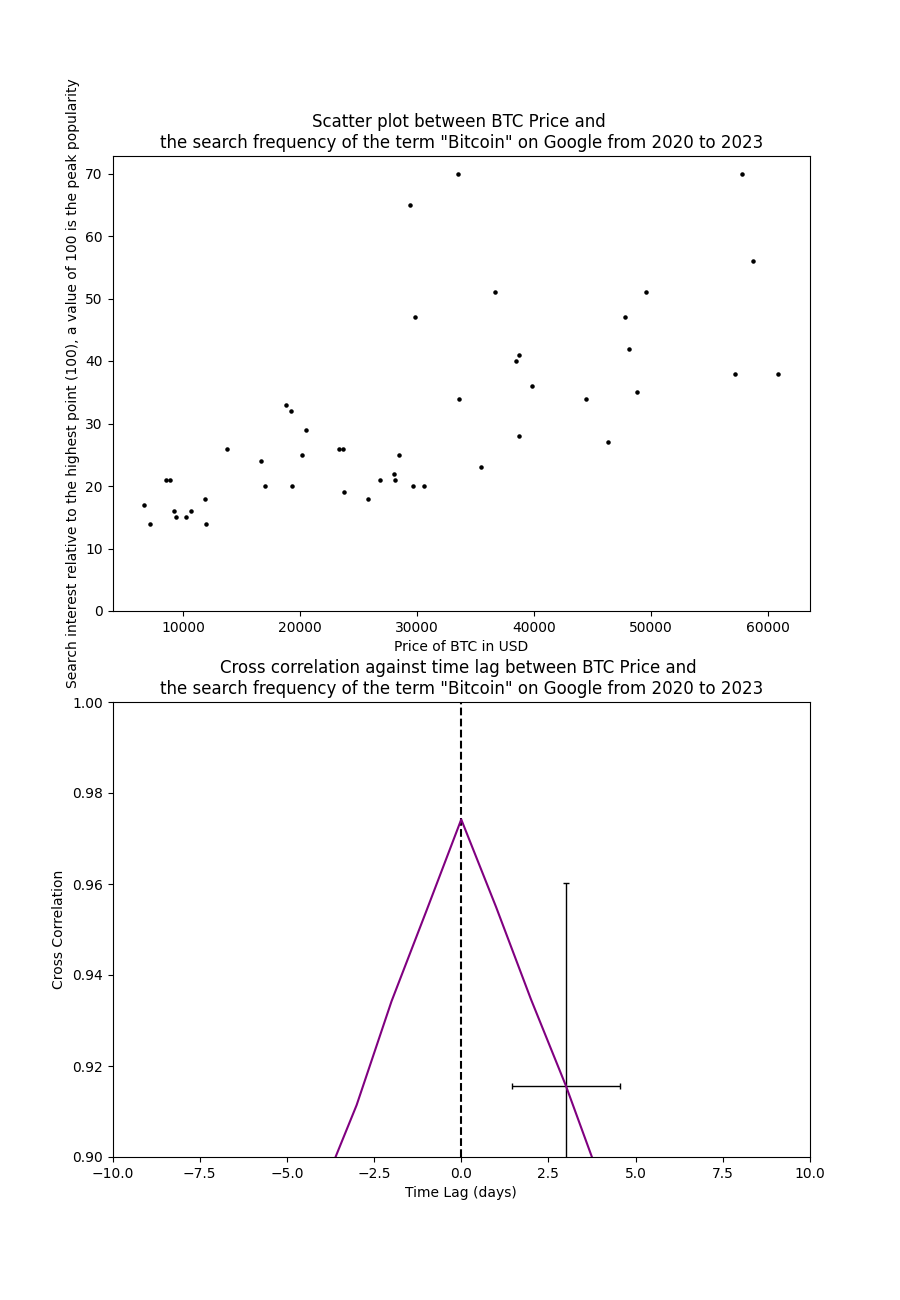
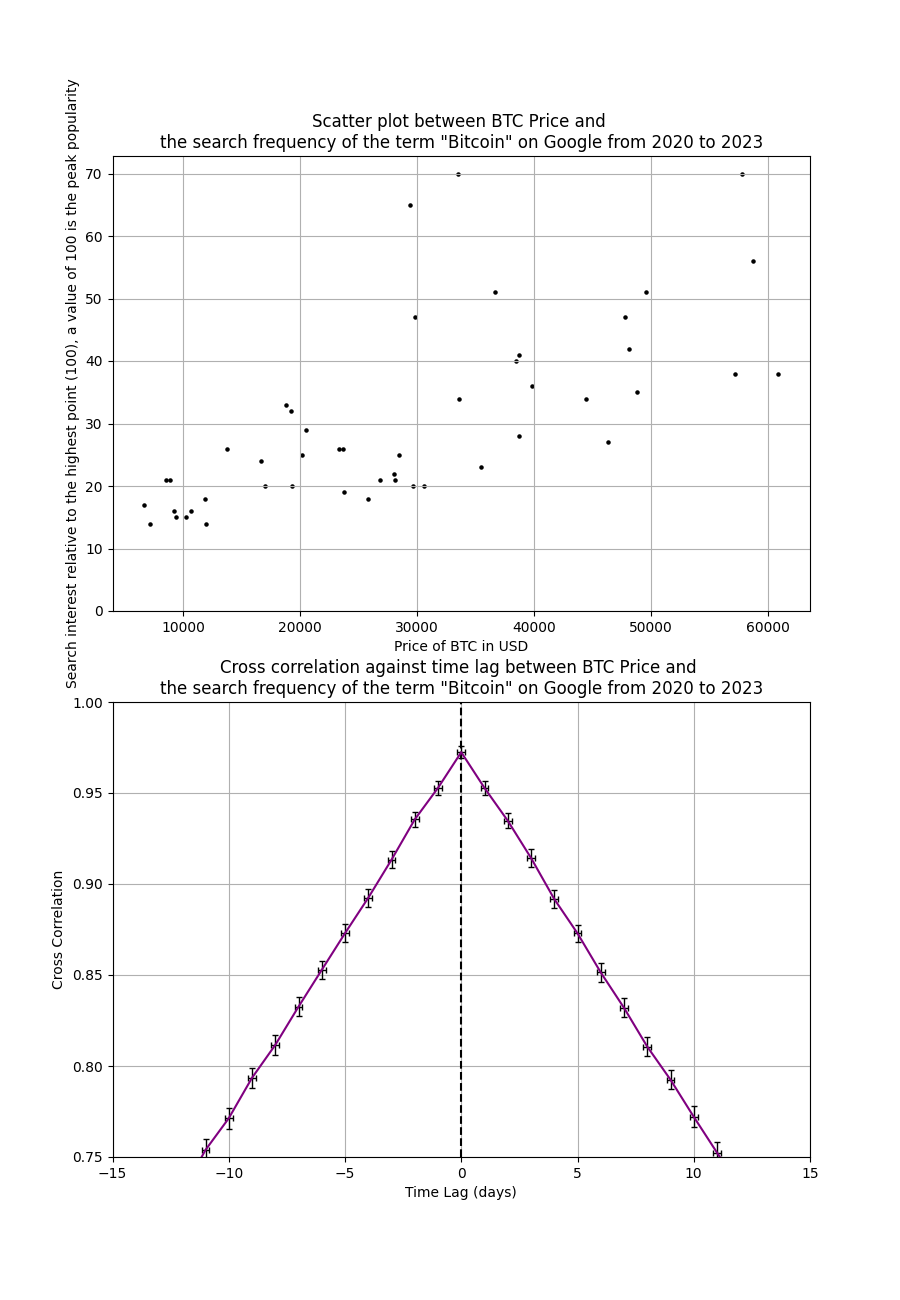
new plots, changed std dev to std err

diff --git a/Projects/TimeSeriesAnalysis/extension.py b/Projects/TimeSeriesAnalysis/extension.py
@@ -37,6 +37,7 @@ btcPrice = np.array(btcPrice)
 fig, ax = plt.subplots(2, 1, figsize = (9, 13))
 lagBtcGold, correlationBtcGold, sdLagBtcGold, sdCorrelationBtcGold, lagvalueBtcGold = base.cross_correlation(btcPrice, goldPrice, n_times= 1000)
 spearman_r_gold, pearson_r_gold  = base.correlation_coefficient(btcPrice, goldPrice)
+print('gold')
 print(spearman_r_gold)
 print(pearson_r_gold)
 
@@ -48,7 +49,7 @@ ax[0].set_ylabel('Gold spot price (US dollars per troy ounce)')
 
 ax[1].grid('True')
 ax[1].errorbar(lagBtcGold, correlationBtcGold, color= 'purple', xerr= sdLagBtcGold, yerr= sdCorrelationBtcGold,
-               ecolor='black', elinewidth=1, capsize=2, errorevery=10)
+               ecolor='black', elinewidth=1, capsize=2, errorevery= 3)
 ax[1].text(-30, 0.375, f"$\\sigma$ on cross-correlation = {np.mean(sdCorrelationBtcGold):.2f},\n$\\sigma$ on time lag = {sdLagBtcGold:.2f} days")
 ax[1].axvline(x=0, color='black', linestyle='--')
 ax[1].set_xlim(-20, 20)
@@ -60,7 +61,7 @@ ax[1].set_xlabel('Time Lag (days)')
 plt.savefig(os.path.join(current_directory, "WrittenReport", "plots", "btcPriceGoldPrice.png"))
 plt.clf()
 
-print(lagvalueBtcGold, 'sd =', sdLagBtcGold)
+print(lagvalueBtcGold, '\pm', sdLagBtcGold)
 #####################################################################################
 #####################################################################################
 
@@ -71,6 +72,7 @@ snpPrice = merged_data['close_y']
 
 lagBtcSnp, correlationBtcSnp, sdLagBtcSnp, sdCorrelationBtcSnp, lagValBtcSnp = base.cross_correlation(btcPrice, snpPrice, n_times= 1000)
 spearman_r_snp, pearson_r_snp  = base.correlation_coefficient(btcPrice, snpPrice)
+print('snp')
 print(spearman_r_snp)
 print(pearson_r_snp)
 
@@ -84,7 +86,7 @@ ax1[0].set_ylabel('snp spot price (US dollars per troy ounce)')
 
 ax1[1].grid('True')
 ax1[1].errorbar(lagBtcSnp, correlationBtcSnp, color= 'purple', xerr= sdLagBtcSnp, yerr= sdCorrelationBtcSnp,
-               ecolor='black', elinewidth=1, capsize=2, errorevery=10)
+               ecolor='black', elinewidth=1, capsize=2, errorevery= 3)
 ax1[1].text(-30, 0.375, f"$\\sigma$ on cross-correlation = {np.mean(sdCorrelationBtcSnp):.2f},\n$\\sigma$ on time lag = {sdLagBtcSnp:.2f} days")
 ax1[1].axvline(x=0, color='black', linestyle='--')
 ax1[1].set_xlim(-15, 15)
@@ -96,7 +98,7 @@ ax1[1].set_xlabel('Time Lag (days)')
 plt.savefig(os.path.join(current_directory, "WrittenReport", "plots", "btcPriceSnp.png"))
 plt.clf()
 
-print(lagValBtcSnp, 'sd =', sdLagBtcSnp)
+print(lagValBtcSnp, '\pm', sdLagBtcSnp)
 
 #####################################################################################
 #####################################################################################
@@ -107,6 +109,7 @@ eurPrice = merged_data['close_y']
 
 lagBtcEur, correlationBtcEur, sdLagBtcEur, sdCorrelationBtcEur, lagValBtcEur = base.cross_correlation(btcPrice, eurPrice, n_times= 1000)
 spearman_r_eur, pearson_r_eur  = base.correlation_coefficient(btcPrice, eurPrice)
+print('eur')
 print(spearman_r_eur)
 print(pearson_r_eur)
 
@@ -120,7 +123,7 @@ ax2[0].set_ylabel('EUR-USD exchange rate (higher = USD stronger)')
 
 ax2[1].grid('True')
 ax2[1].errorbar(lagBtcEur, correlationBtcEur, color= 'purple', xerr= sdLagBtcEur, yerr= sdCorrelationBtcEur,
-               ecolor='black', elinewidth=1, capsize=2, errorevery=10)
+               ecolor='black', elinewidth=1, capsize=2, errorevery= 3)
 ax2[1].text(-30, 0.375, f"$\\sigma$ on cross-correlation = {np.mean(sdCorrelationBtcEur):.2f},\n$\\sigma$ on time lag = {sdLagBtcEur:.2f} days")
 ax2[1].axvline(x=0, color='black', linestyle='--')
 ax2[1].set_xlim(-20, 20)
@@ -132,7 +135,8 @@ ax2[1].set_xlabel('Time Lag (days)')
 plt.savefig(os.path.join(current_directory, "WrittenReport", "plots", "btcPriceEur.png"))
 plt.clf()
 
-print(lagValBtcEur, 'sd =', sdLagBtcEur)
+print("eur")
+print(lagValBtcEur, '\pm', sdLagBtcEur)
 
 ##################################################################################
 ###################################################################################
@@ -154,6 +158,7 @@ plt.show()
 fig3, ax3 = plt.subplots(2, 1, figsize = (9, 13))
 lagBtcSearch, correlationBtcSearch, sdLagBtcSearch, sdCorrelationBtcSearch, lagValBtcSearch = base.cross_correlation(btcPrice, btcSearch, n_times= 1000)
 spearman_r, pearson_r  = base.correlation_coefficient(btcPrice, btcSearch)
+print('search')
 print(spearman_r)
 print(pearson_r)
 
@@ -166,7 +171,7 @@ ax3[0].set_ylabel('Search interest relative to the highest point (100), a value 
 
 ax3[1].grid('True')
 ax3[1].errorbar(lagBtcSearch, correlationBtcSearch, color= 'purple', xerr= sdLagBtcSearch, yerr= sdCorrelationBtcSearch,
-               ecolor='black', elinewidth=1, capsize=2, errorevery=5)
+               ecolor='black', elinewidth=1, capsize=2)
 ax3[1].text(-30, 0.375, f"$\\sigma$ on cross-correlation = {np.mean(sdCorrelationBtcSearch):.2f},\n$\\sigma$ on time lag = {sdLagBtcSearch:.2f} days")
 ax3[1].axvline(x=0, color='black', linestyle='--')
 ax3[1].set_xlim(-15, 15)
@@ -177,4 +182,4 @@ ax3[1].set_xlabel('Time Lag (days)')
 
 plt.savefig(os.path.join(current_directory, "WrittenReport", "plots", "btcPricebtcSearch.png"))
 
-print(lagValBtcSearch, 'sd =', sdLagBtcSearch)
+print(lagValBtcSearch, '\pm', sdLagBtcSearch)

diff --git a/Projects/TimeSeriesAnalysis/main.py b/Projects/TimeSeriesAnalysis/main.py
@@ -67,16 +67,16 @@ lagBtcLtc, correlationBtcLtc, sdLagBtcLtc, sdCorrelationBtcLtc, lagBtcLtcVal = c
 plt.axvline(x= 0, color= 'black', linestyle= '--')
 
 plt.errorbar(lagBtcEth, correlationBtcEth, color= 'purple', xerr= sdLagBtcEth, yerr= sdCorrelationBtcEth, 
-             ecolor= 'black', elinewidth= 1, capsize= 2, errorevery= 10, label = 'BTC ETH')
+             ecolor= 'black', elinewidth= 1, capsize= 2, errorevery= 3, label = 'BTC ETH')
 
 plt.errorbar(lagBtcSol, correlationBtcSol, color= 'red', xerr= sdLagBtcSol, yerr= sdCorrelationBtcSol, 
-             ecolor= 'black', elinewidth= 1, capsize= 2, errorevery= 10, label = 'BTC SOL')
+             ecolor= 'black', elinewidth= 1, capsize= 2, errorevery= 3, label = 'BTC SOL')
 
 plt.errorbar(lagBtcUsdt, correlationBtcUsdt, color= 'black', xerr= sdLagBtcUsdt, yerr= sdCorrelationBtcUsdt, 
-             ecolor= 'black', elinewidth= 1, capsize= 2, errorevery= 10, label = 'BTC USDT')
+             ecolor= 'black', elinewidth= 1, capsize= 2, errorevery= 3, label = 'BTC USDT')
 
 plt.errorbar(lagBtcLtc, correlationBtcLtc, color= 'green', xerr= sdLagBtcLtc, yerr= sdCorrelationBtcLtc, 
-             ecolor= 'black', elinewidth= 1, capsize= 2, errorevery= 10, label = 'BTC LTC')
+             ecolor= 'black', elinewidth= 1, capsize= 2, errorevery= 3, label = 'BTC LTC')
 
 #plt.plot(lagBtcEth, correlationBtcEth, linewidth = 3, color = 'red')
 #plt.plot(lagBtcLtc, correlationBtcLtc, label = 'btc ltc')
@@ -91,12 +91,12 @@ plt.legend()
 plt.savefig(os.path.join(current_directory, 'WrittenReport', 'plots', 'cross_correlation_main.png'))
 plt.clf()
 
-print(correlation_coefficient(btcEthPrice, ethPrice))
-print(correlation_coefficient(btcSolPrice, solPrice))
-print(correlation_coefficient(btcLtcPrice, ltcPrice))
-print(correlation_coefficient(btcUsdtPrice, usdtPrice))
+print('eth', correlation_coefficient(btcEthPrice, ethPrice))
+print('sol', correlation_coefficient(btcSolPrice, solPrice))
+print('ltc', correlation_coefficient(btcLtcPrice, ltcPrice))
+print('usdt', correlation_coefficient(btcUsdtPrice, usdtPrice))
 
-print(lagBtcEthVal, 'with sd=', sdLagBtcEth)
-print(lagBtcLtcVal,'with sd=', sdLagBtcLtc)
-print(lagBtcEthVal,'with sd=', sdLagBtcEth)
-print(lagBtcUsdtVal,'with sd=', sdLagBtcUsdt)
+print(lagBtcEthVal, '\pm', sdLagBtcEth)
+print(lagBtcLtcVal,'\pm', sdLagBtcLtc)
+print(lagBtcSolVal,'\pm', sdLagBtcSol)
+print(lagBtcUsdtVal,'\pm', sdLagBtcUsdt)

diff --git a/Projects/TimeSeriesAnalysis/base.py b/Projects/TimeSeriesAnalysis/base.py
@@ -18,8 +18,8 @@ def correlation_coefficient(coin_a ,coin_b,  mode = 'both'):
                                 choices: 'pearson', 'spearman', 'both's
 
     Returns:
-       spearman, pearson or both correlation coefficients
        returns in the order pearson, spearman for both
+       
     """
     if len(coin_a) != len(coin_b):
         raise Exception("datasets must be of same length. use merge_dates() function first.")
@@ -41,7 +41,7 @@ def correlation_coefficient(coin_a ,coin_b,  mode = 'both'):
         spearman_r = scipy.stats.spearmanr(coin_a, coin_b, alternative = 'less')
         pearson_r = scipy.stats.pearsonr(coin_a, coin_b)
         
-        return pearson_r, spearman_r
+        return pearson_r[0], spearman_r[0]
     
 def cross_correlation(coin_a, coin_b, n_times):
     total_correlation = [0] * n_times
@@ -90,9 +90,11 @@ def cross_correlation(coin_a, coin_b, n_times):
     
     lag_index = np.argmax(avg_corr)
     lag_value = lag[lag_index]
-    print(std_dev_lag)
     
-    return lag, avg_corr, std_dev_lag, std_dev_corr, lag_value
+    std_error_lag = std_dev_lag/np.sqrt(len(lag))
+    std_error_corr = std_dev_corr/np.sqrt(len(lag))
+    
+    return lag, avg_corr, std_error_lag, std_error_corr, lag_value
 
 def plot_scatter(coin_a, coin_b, names, save_loc, title =''):
     
